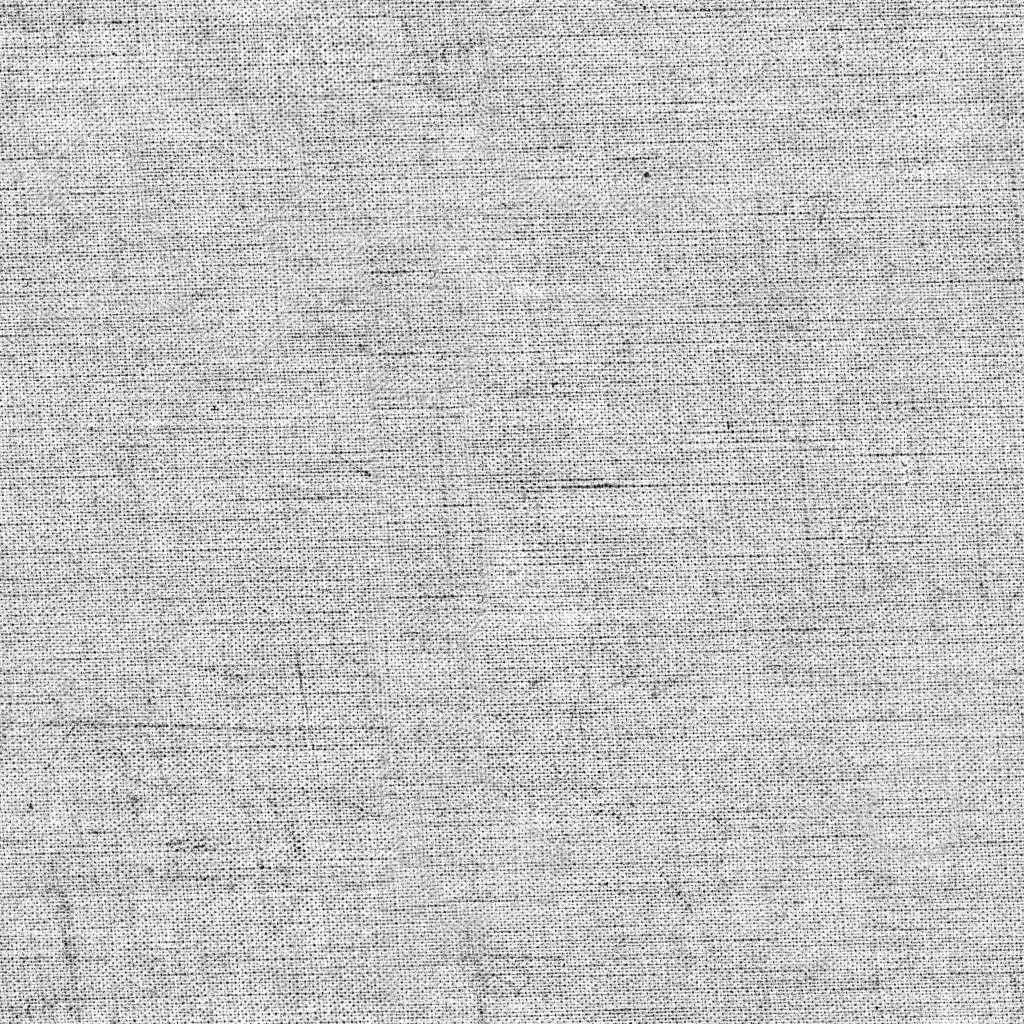
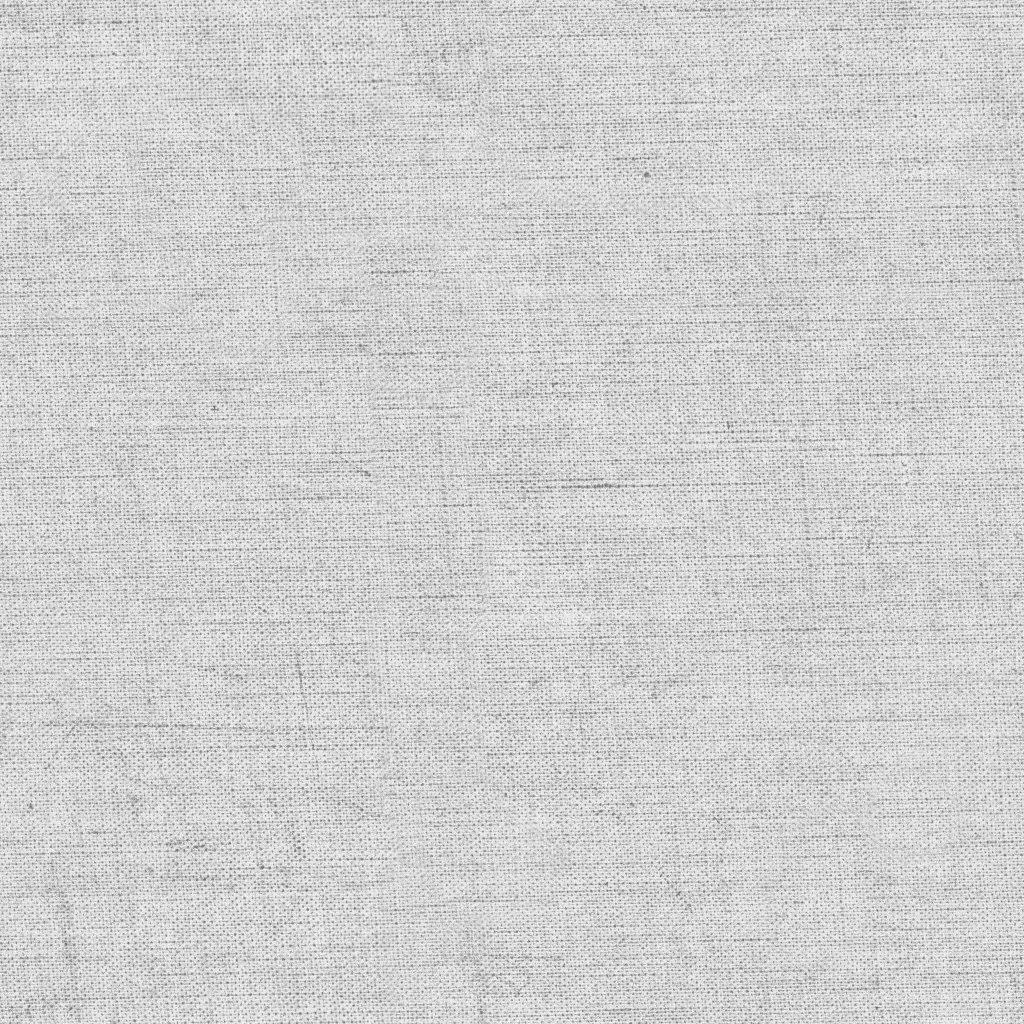
Refine binder cloth and diffuse window light

Changed region(s): [[0.0, 0.0, 1.0, 1.0]]

diff --git a/escriptori/daylight.js b/escriptori/daylight.js
@@ -26,6 +26,8 @@ export function createDaylight({ scene, renderer, canvas, atmosphere, ambient, d
   daylight.shadow.bias = -.0006;
   daylight.shadow.radius = 2.5;
   const sunColor = new THREE.Color(), sky = new THREE.Color(), ground = new THREE.Color();
+  const windowRadiance = { value: new THREE.Color() };
+  const windowOpening = { value: atmosphere.windowOpening };
   let applied;
 
   function apply(state) {
@@ -37,10 +39,10 @@ export function createDaylight({ scene, renderer, canvas, atmosphere, ambient, d
     ambient.groundColor.copy(ground.set('#9e7952').lerp(new THREE.Color('#8b8974'), state.day));
     const power = state.roomPower;
     ambient.intensity = .045 + .145 * Math.max(state.day, power) + .17 * state.day + .13 * power;
-    // Shift part of the uniform daylight into the existing hemisphere on
-    // the window side. The aperture and the shelf AO then read together.
+    // Keep a diffuse room bounce; direct sky fill comes from the finite opening.
     fill.position.set(5 - 13 * state.day, 5 - 2 * state.day, 4);
-    fill.color.set('#dce9fa'); fill.intensity = .025 + .52 * state.day + .095 * power;
+    fill.color.set('#dce9fa'); fill.intensity = .025 + .12 * state.day + .095 * power;
+    windowRadiance.value.copy(fill.color).multiplyScalar(8 * state.day);
     roomLight.intensity = 85 * power;
     // At night the ceiling must still anchor the furniture to the room. Skip
     // this second shadow pass entirely while daylight lights the interior.
@@ -81,6 +83,25 @@ export function createDaylight({ scene, renderer, canvas, atmosphere, ambient, d
   window.addEventListener('pageshow', () => refresh(true));
   refresh(true);
   return {
+    prepareWindowShader(shader) {
+      shader.uniforms.deskWindowRadiance = windowRadiance;
+      shader.uniforms.deskWindowOpening = windowOpening;
+      shader.fragmentShader = 'uniform vec3 deskWindowRadiance;\nuniform vec4 deskWindowOpening;\n' + shader.fragmentShader;
+      shader.fragmentShader = shader.fragmentShader.replace('#include <lights_fragment_end>', `
+        #ifdef RE_IndirectDiffuse
+        if (deskWindowRadiance.g > 0.0) {
+          vec3 toWindow = (viewMatrix * vec4(deskWindowOpening.xyz, 1.0)).xyz - geometryPosition;
+          float invDistance = inversesqrt(dot(toWindow, toWindow) + deskWindowOpening.w);
+          vec3 direction = toWindow * invDistance;
+          // The window opens into the room along +X. Both projected cosines
+          // and the apparent area fall off smoothly as the opening recedes.
+          float apertureCos = max(0.0, -dot(direction, viewMatrix[0].xyz));
+          float surfaceCos = max(0.0, dot(direction, geometryNormal));
+          irradiance += deskWindowRadiance * (deskWindowOpening.w * invDistance * invDistance * apertureCos * surfaceCos);
+        }
+        #endif
+        #include <lights_fragment_end>`);
+    },
     setTheme(value) { dark = value; refresh(); },
     setMoment(value) { manual = value; refresh(); },
     setRoomLight(value) { roomOverride = value === null ? null : Boolean(value); refresh(); },

diff --git a/escriptori/materials.js b/escriptori/materials.js
@@ -5,7 +5,7 @@ import { deskLayout } from './desk-layout.js?v=1.10.0';
 export async function prepareMaterials(room, scene, renderer, resources) {
   const loader = new THREE.TextureLoader();
   const texture = async name => {
-    const url = new URL('../assets/desk/pbr/' + name + '.webp', import.meta.url).href;
+    const url = new URL('../assets/desk/pbr/' + name, import.meta.url).href;
     const map = await resources.load(url, objectURL => loader.loadAsync(objectURL));
     map.wrapS = map.wrapT = THREE.RepeatWrapping;
     map.flipY = false;
@@ -13,10 +13,12 @@ export async function prepareMaterials(room, scene, renderer, resources) {
     return map;
   };
   const [cloth, clothNormal, clothRough, oak, oakNormal, oakRough, studio] = await Promise.all([
-    ...['book-color', 'book-normal', 'book-rough', 'oak-color', 'oak-normal', 'oak-rough'].map(texture),
+    ...['book-color.webp?v=1.13.0', 'book-normal.webp', 'book-rough.webp?v=1.13.0',
+      'oak-color.webp', 'oak-normal.webp', 'oak-rough.webp'].map(texture),
     resources.load(new URL('../assets/desk/pbr/studio.hdr', import.meta.url).href, objectURL => new HDRLoader().loadAsync(objectURL)),
   ]);
   oak.colorSpace = THREE.SRGBColorSpace;
+  for (const map of [cloth, clothNormal, clothRough]) map.repeat.set(1.28, 1.28);
   // The veneer scan runs along U. Keep the pores and the finish registered
   // as the cathedral grain stretches along each board's longest face.
   for (const map of [oak, oakNormal, oakRough]) map.repeat.set(.52, 1.65);
@@ -38,7 +40,7 @@ export async function prepareMaterials(room, scene, renderer, resources) {
       material.name = source.name;
       material.map = cloth;
       material.normalMap = clothNormal;
-      material.normalScale.set(.48, .48);
+      material.normalScale.set(.38, .38);
       material.roughnessMap = clothRough;
       material.roughness = 1;
       material.sheen = .22;

diff --git a/escriptori/scene.js b/escriptori/scene.js
@@ -1,17 +1,17 @@
 import * as THREE from 'three';
 import { GLTFLoader } from '../assets/vendor/three/addons/loaders/GLTFLoader.js';
 import { DeskNavigation } from './navigation.js?v=1.11.0';
-import { createAtmosphere } from './atmosphere.js?v=1.12.0';
-import { prepareMaterials } from './materials.js?v=1.12.0';
+import { createAtmosphere } from './atmosphere.js?v=1.13.0';
+import { prepareMaterials } from './materials.js?v=1.13.0';
 import { createReadingPages } from './reading.js?v=1.11.0';
-import { createDaylight } from './daylight.js?v=1.12.0';
+import { createDaylight } from './daylight.js?v=1.13.0';
 import { createPaperView } from './paper-view.js?v=1.11.0';
 import { createContactShadows } from './contact-shadows.js?v=1.11.0';
 import { createShelfOcclusion } from './shelf-occlusion.js?v=1.11.0';
 import { createLabelTexture } from './labels.js?v=1.11.0';
 import { createReliefs } from './reliefs.js?v=1.11.0';
 import { createObjectJourney } from './journey.js?v=1.11.0';
-import { createCloudShadows } from './weather.js?v=1.11.0';
+import { createCloudShadows } from './weather.js?v=1.13.0';
 
 const reducedMotion = matchMedia('(prefers-reduced-motion: reduce)');
 const narrow = matchMedia('(max-width: 700px)');
@@ -180,7 +180,7 @@ export async function createDesk({ canvas, projects, dark: initialDark, resource
       }
     },
     onReadingPower: value => { readingPower = value; readingLight.intensity = readingIntensity() * readingBlend; } });
-  const weather = createCloudShadows(scene, daylight);
+  const weather = createCloudShadows(scene, daylight, lighting.prepareWindowShader);
   atmosphere.setWeather(weather.uniforms);
 
   function requestRender(geometryChanged = true) {

diff --git a/escriptori/weather.js b/escriptori/weather.js
@@ -2,7 +2,7 @@ import * as THREE from 'three';
 
 // A soft, drifting mask affects only the scene's sole directional light (Sun).
 // Ceiling/reading lights, ambient light and unlit printed ink remain unchanged.
-export function createCloudShadows(scene, sun) {
+export function createCloudShadows(scene, sun, prepareWindowShader) {
   const size = 128, data = new Uint8Array(size * size);
   const smooth = x => x * x * (3 - 2 * x);
   const hash = (x, y, n) => { const v = Math.sin((x % n) * 127.1 + (y % n) * 311.7 + n * 13.7) * 43758.5453; return v - Math.floor(v); };
@@ -35,8 +35,9 @@ export function createCloudShadows(scene, sun) {
       shader.vertexShader = shader.vertexShader.replace('#include <project_vertex>', '#include <project_vertex>\ndeskWeatherWorld = (modelMatrix * vec4(transformed, 1.0)).xyz;');
       shader.fragmentShader = declarations + shader.fragmentShader;
       shader.fragmentShader = shader.fragmentShader.replace('#include <lights_fragment_begin>', lightChunk);
+      prepareWindowShader(shader);
     };
-    material.customProgramCacheKey = () => key + '|solar-clouds-v1'; material.needsUpdate = true;
+    material.customProgramCacheKey = () => key + '|solar-clouds-v1|window-sky-v1'; material.needsUpdate = true;
   }
   scene.traverse(node => { if (node.isMesh) for (const material of Array.isArray(node.material) ? node.material : [node.material]) prepare(material); });
   function update(seconds) {

diff --git a/escriptori/desk.js b/escriptori/desk.js
@@ -279,7 +279,7 @@ async function start() {
   try {
     loading.update(0, 'Preparant l’escriptori…');
     const [manifest] = await Promise.all([
-      fetch(new URL('assets/desk/loading.json?v=1.11.0', base)).then(response => {
+      fetch(new URL('assets/desk/loading.json?v=1.13.0', base)).then(response => {
         if (!response.ok) throw new Error('No s’ha pogut carregar el pla de recursos.');
         return response.json();
       }),
@@ -287,7 +287,7 @@ async function start() {
     ]);
     loading.update(5, 'Carregant el motor 3D…');
     makeControls();
-    const { createDesk } = await import('./scene.js?v=1.12.0');
+    const { createDesk } = await import('./scene.js?v=1.13.0');
     loading.update(10, 'Carregant els models i les textures…');
     const resources = createResourceLoader(manifest, base, loading.update);
     scene = await createDesk({

diff --git a/escriptori/atmosphere.js b/escriptori/atmosphere.js
@@ -43,6 +43,9 @@ export async function createAtmosphere(scene, room, resources) {
   let windowVisible = false, plantVisible = false;
   return {
     leafTexture,
+    // xyz = opening centre in the room; w = squared radius of an equal-area disc.
+    windowOpening: new THREE.Vector4(window.position.x, window.position.y, window.position.z,
+      view.geometry.parameters.width * view.geometry.parameters.height / Math.PI),
     setWeather(uniforms) {
       view.material.onBeforeCompile = shader => {
         Object.assign(shader.uniforms, uniforms, { deskSkyTint: skyTint });

diff --git a/escriptori/index.html b/escriptori/index.html
@@ -12,7 +12,7 @@
   <link rel="stylesheet" href="../styles.css?v=1.6.0">
   <link rel="stylesheet" href="desk.css?v=1.11.0">
   <script type="importmap">{"imports":{"three":"../assets/vendor/three/three.module.min.js"}}</script>
-  <script type="module" src="desk.js?v=1.12.0"></script>
+  <script type="module" src="desk.js?v=1.13.0"></script>
 </head>
 <body class="desk-page">
   <a class="skip-link" href="#projectes">Ves als projectes</a>

diff --git a/docs/ESCRIPTORI-RENDER.md b/docs/ESCRIPTORI-RENDER.md
@@ -2,6 +2,14 @@
 
 Revisió del 19 de novembre de 2026. L’escena continua sent un GLB preparat amb Blender i renderitzat amb Three.js 0.180.0, amb recursos locals. Les propostes pendents són hipòtesis per comparar visualment en local; no són millores de rendiment ja mesurades.
 
+## Tela i llum de finestra · 1.13
+
+La referència d’aquesta passada és `fe44a97`. La tela dels lloms i de la capsa utilitza els escaneigs originals de Book Pattern. El tint de la coberta queda visible entre els fils. La trama és més fina, el relleu de la normal és més suau i la rugositat mínima és més alta. Les transformacions estan registrades a `assets/desk/pbr/sources.json`. Els dos WebP junts ocupen 58.730 bytes menys. El manifest inicial suma 10.416.185 bytes en 16 recursos.
+
+El cel que es veu des de la taula es representa amb una obertura orientada cap a l’interior i d’àrea equivalent a la finestra. La llum difusa depèn de l’àrea aparent i de la inclinació de la superfície que la rep. L’oclusió del prestatge s’aplica després. El terme s’anul·la de nit. El sol conserva el seu mapa d’ombres i els núvols, i el plafó i el llum de lectura conserven els seus controls. El càlcul aprofita la passada de material existent.
+
+Les sis parelles de captures a `output/desk/teixit-llum/` comparteixen enquadrament i hora solar. A la taula de dia, totes dues versions registren 186 crides de dibuix, 79.347 triangles i 32 textures. El retall de 288 × 422 píxels del full imprès de Trama és idèntic. En quatre càrregues locals d’escriptori per versió, la mediana de preparació ha passat d’1,37 a 1,45 segons. Les proves d’interacció en escriptori i mòbil han acabat sense errors de consola.
+
 ## Passada de realisme · 1.12
 
 La veta del roure segueix l’eix llarg de cada peça. Els mapes de color, normals i rugositat comparteixen la mateixa escala perquè els porus coincideixin amb el dibuix de la xapa. El vernís distingeix la zona d’escriptura del fons dels separadors.

diff --git a/assets/desk/pbr/README.md b/assets/desk/pbr/README.md
@@ -10,4 +10,4 @@ Recursos de [Poly Haven](https://polyhaven.com/), distribuïts amb [CC0](https:/
 
 [sources.json](sources.json) especifica els URL de cada original, les seves sumes MD5 i les transformacions. El color del teixit s’ha convertit en una màscara neutra per conservar els colors per àrea. Els mapes normals mantenen les dades OpenGL amb compressió WebP sense pèrdua; els mapes de rugositat no es tracten com a color sRGB. El color del roure utilitza sRGB. L’HDRI RGBE no s’ha modificat.
 
-Els mapes d’enquadernació representen una superfície de 0,3 m. El roure representa 1 × 2 m. `tools/build-desk-assets.py` calcula les coordenades UV a aquesta escala, amb 6,5 unitats del model per metre; no es repeteixen arbitràriament sobre cada cara. El mapa d’oclusió de Blender utilitza un canal UV separat.
+L’escaneig d’enquadernació cobreix 0,3 m i el del roure, 1 × 2 m. Blender prepara les UV amb 6,5 unitats del model per metre. Al navegador, els tres mapes de la tela es repeteixen 1,28 vegades per tram de 0,3 m per representar un teixit d’enquadernació més fi. La màscara de color conserva el tint de cada coberta i la rugositat limita els reflexos entre els fils. El roure allarga la veta seguint la peça. El mapa d’oclusió de Blender utilitza un canal UV separat.
